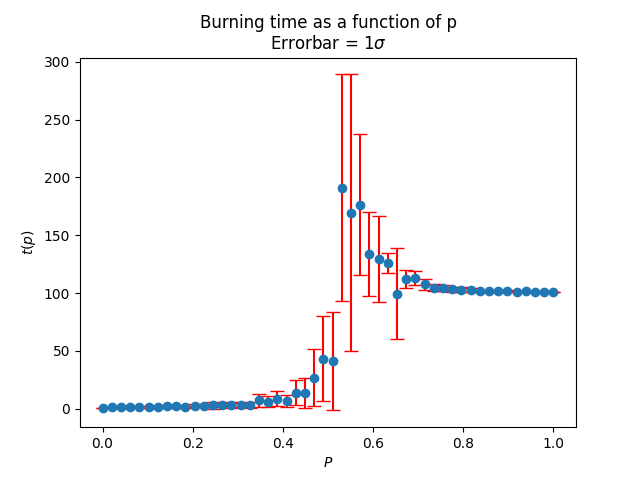
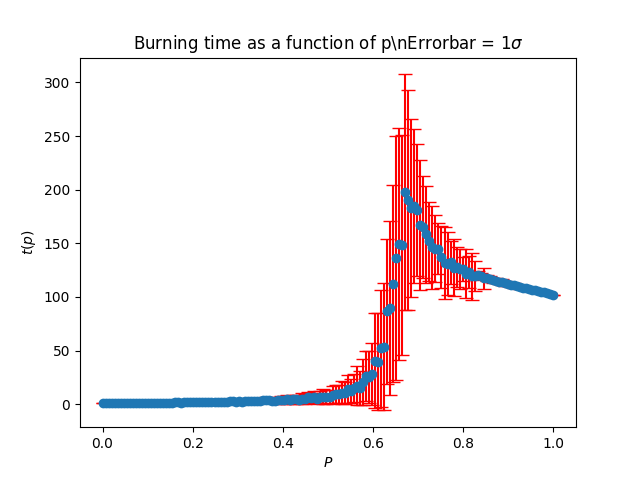
Code changed to compute some tests

diff --git a/classes/simulation.py b/classes/simulation.py
@@ -47,12 +47,12 @@ class forestFire():
                 propagationTime += 1
                 
                 neighboursTensor = self.createNeighbourTensor()
-                couldPropagate = np.sum(neighboursTensor == 2, axis=0)
-
+                couldPropagate = neighboursTensor == 2
+                incresProbability = np.sum(couldPropagate, axis=0)
                 burningTrees = (self.forest == 2)
 
                 probabilityMatrixForest = np.random.rand(*self.forestSize)
-                probabilityMatrixForest = probabilityMatrixForest ** couldPropagate
+                probabilityMatrixForest = probabilityMatrixForest ** incresProbability
 
                 #-----------------------------------------------------------------------------------------------------
                 # Here could appear a function to modificate probabilityMatrixForest depending of wind and topography
@@ -60,7 +60,7 @@ class forestFire():
 
                 couldBurn = (probabilityMatrixForest <= p)
 
-                newBurningTrees = (self.forest == 1) & couldBurn #& couldPropagate
+                newBurningTrees = (self.forest == 1) & couldBurn & np.logical_or.reduce(couldPropagate,axis=0)
 
                 # Update forest matrix for the next step
                 self.forest[burningTrees] = 3
@@ -175,14 +175,14 @@ class forestFire():
             plt.savefig(saveRoute)
         
         return p_c
-    
+    #-------------------------------------------------------------------------------------------------
     def criticalExponent(self, saveRoute:str,epsilon:float,delta:float, n:int, m1:int,m2:int, initial:np.ndarray):
         self.forest = np.copy(initial)
-        p_c = self.percolationThreshold(saveRoute, n,m1,self.forest)
-        #p_c=0.50
+        #p_c = self.percolationThreshold(saveRoute, n,m1,self.forest)
+        p_c=0.9
         
         # Possible p values to consider around p_c
-        P = np.arange( p_c, p_c + epsilon, delta)
+        P = np.arange( p_c - epsilon, p_c, delta)
         #P = np.arange(p_c - epsilon, p_c, delta)
         t = np.abs(P-p_c)
         #print(t)
@@ -323,11 +323,24 @@ class triangularForest(forestFire):
     def __init__(self, burningThreshold:float,occuProba:float, initialForest:np.ndarray, wind:np.ndarray = zeroArray, topography:np.ndarray = zeroArray, saveHistoricalPropagation:bool = False):
         rows,columns = initialForest.shape
         neighboursBoolTensor = triangularNeighboursBooleanTensor(columns,rows)
-        neighbours = [(1,0),(0,-1),(1,0),(-1,0)]
+        neighbours = [(0,1),(0,-1),(1,0),(-1,0)]
         super().__init__(burningThreshold, occuProba,initialForest, neighbours, neighboursBoolTensor, wind, topography, saveHistoricalPropagation)
     
     def animate(self, fileName, interval=100):
-        return
+        if (self.saveHistoricalPropagation):
+            
+            print('Starting simulation, wait a sec...')
+            # Simulate fire
+            _ = self.propagateFire(self.burningThreshold)
+            
+            print('Simulation has finished. Initializing animation...')
+            teselado.triangularAnimationPlot(filename=fileName,
+                                            historical= self.historicalFirePropagation,
+                                            interval=interval,
+                                            size=self.forestSize)
+            print('Done.')
+        else:
+            print('Historical data not found.')
 
 #=======================================================================================
 # Maybe more forest types, boronoy, etc
@@ -368,9 +381,10 @@ def triangularNeighboursBooleanTensor(columns,rows):
 
     evenColumns = np.zeros((rows,columns), dtype=bool)
     evenColumns[:, ::2] = True
+    for i in range(1, rows, 2):  # Fila impar, comenzando desde 1
+        evenColumns[i] = np.roll(evenColumns[i], shift=1)
 
-    oddColumns = np.zeros((rows,columns), dtype=bool)
-    oddColumns[:, 1::2] = True
+    oddColumns = ~evenColumns
 
     booleanTensor[2] = evenColumns
     booleanTensor[3] = oddColumns

diff --git a/main.py b/main.py
@@ -7,19 +7,19 @@ import matplotlib.pyplot as plt
 
 if __name__ == '__main__':
     usrChoice = menu()
-    matrix = np.ones((100,100))
-    matrix[50,50] = 2
+    matrix = np.ones((500,500))
+    matrix[250,250] = 2
     
     if usrChoice ==1:
-        forest = simulation.squareForest(burningThreshold=0.55,occuProba=0.93 ,initialForest=matrix, saveHistoricalPropagation=True)
-        forest.animate('intento_1')
+        forest = simulation.triangularForest(burningThreshold=0.9,occuProba=0.95 ,initialForest=matrix, saveHistoricalPropagation=True)
+        forest.animate('intento_3')
     
     elif usrChoice == 2:
-        n = 50    # Amount of values to consider for p
-        m = 15      # Amount of trials per p 
+        n = 150    # Amount of values to consider for p
+        m = 150      # Amount of trials per p 
         saveRoute = './graphs/finalTimes.png'
         
-        forest = simulation.squareForest(burningThreshold=0.55, occuProba=0.95 ,initialForest=matrix)
+        forest = simulation.triangularForest(burningThreshold=0.55, occuProba=1 ,initialForest=matrix)
         forest.propagationTime(saveRoute,n,m, matrix)
             
     elif usrChoice == 3:
@@ -27,17 +27,17 @@ if __name__ == '__main__':
         m = 5      # Amount of trials per p        
         saveRoute = './graphs/percolationThreshold.png'
         
-        forest = simulation.squareForest(burningThreshold=0.55,occuProba=0.92 , initialForest=matrix)
+        forest = simulation.triangularForest(burningThreshold=0.55,occuProba=0.92 , initialForest=matrix)
         p_c = forest.percolationThreshold(saveRoute,n,m,matrix,True)
         print("The percolation threshold is: ",p_c)
         
     elif usrChoice == 4:
-        n = 20    # Amount of values to consider for p in the range (0,1)to fin p_c
+        n = 20      # Amount of values to consider for p in the range (0,1)to fin p_c
         m1 = 5      # Amount of trials per p        
-        m2 = 10     # Amount of trials per p to find M
+        m2 = 30     # Amount of trials per p to find M
         saveRoute = './graphs/percolationThreshold.png'
-        epsilon = 0.1
-        delta = 0.001
+        epsilon = 0.002*6
+        delta = 0.002
         
         forest = simulation.squareForest(burningThreshold=0.55,occuProba=0.92 , initialForest=matrix)
         criticalExponent = forest.criticalExponent(saveRoute,epsilon,delta,n,m1,m2,matrix)

diff --git a/classes/teselado.py b/classes/teselado.py
@@ -112,7 +112,39 @@ def generateHexagonalGrid(xmin, xmax, ymin, ymax, hex_size):
 
 #=============================================================================================================================================
 
-def triangularAnimationPlot(filename:str, historical:list, interval:int) -> None:
+def triangularAnimationPlot(filename:str, historical:list, interval:int, size:tuple) -> None:
+    m,n = size
+    triangules = generateTriangularGrid(n,m)
+  
+    triangulesColors = colorAssigner(historical[0])
+    triangule_collection = PolyCollection(triangules, edgecolors='black', facecolors=triangulesColors,linewidth=0.1, cmap=customCmap)
+
+    fig, ax = plt.subplots(figsize=(10, 10))
+    ax.set_title('Triangular teselation simulation', size=20)
+    ax.add_collection(triangule_collection)
+    ax.set_xlim(0, m * np.sqrt(3))
+    ax.set_ylim(0, n - 1)
+    ax.set_aspect('equal')
+
+    # Normalizar los valores (0 a 3 para los colores)
+    norm = mcolors.BoundaryNorm(boundaries=[0,0.75,1.5,2.25,3], ncolors=len(colors))
+
+    # Agregar la barra de color
+    cbar = plt.colorbar(plt.cm.ScalarMappable(norm=norm, cmap=customCmap), ax=ax)
+    cbar.set_label('Estado del árbol')  # Etiqueta para la barra de color
+    cbar.set_ticks(ticksLocation)  # Ubicación de los ticks
+    cbar.set_ticklabels(ticksLabels)  # Etiquetas de los ticks
+    #cbar = plt.colorbar(hex_collection, ticks=ticksLocation)
+    #cbar.set_ticklabels(ticksLabels)
+
+    def update_colors(frame):
+        triangulesColors = colorAssigner(historical[frame])
+        triangule_collection.set_facecolors(triangulesColors)
+        return [triangule_collection]
+
+    # Crear la animación
+    trianguleAni = animation.FuncAnimation(fig, update_colors, frames=len(historical), interval=interval, blit=False)
+    trianguleAni.save(filename + ".gif", writer="pillow")
     return
 
 #-------------------------------------------------------------------------------------------------------------------
@@ -120,7 +152,7 @@ def XOR(A,B):
   return ( not(A) and B) or ( A and not(B))
 
 # Function to generate equilateral triangles for a tessellation
-def generateTriangularGrid(n,m, size):
+def generateTriangularGrid(n,m, size=2.0):
     """
     Generate a triangular grid covering the region (0, n) x (0, m)
     with equilateral triangles. 'size' is the side length of each triangle.
